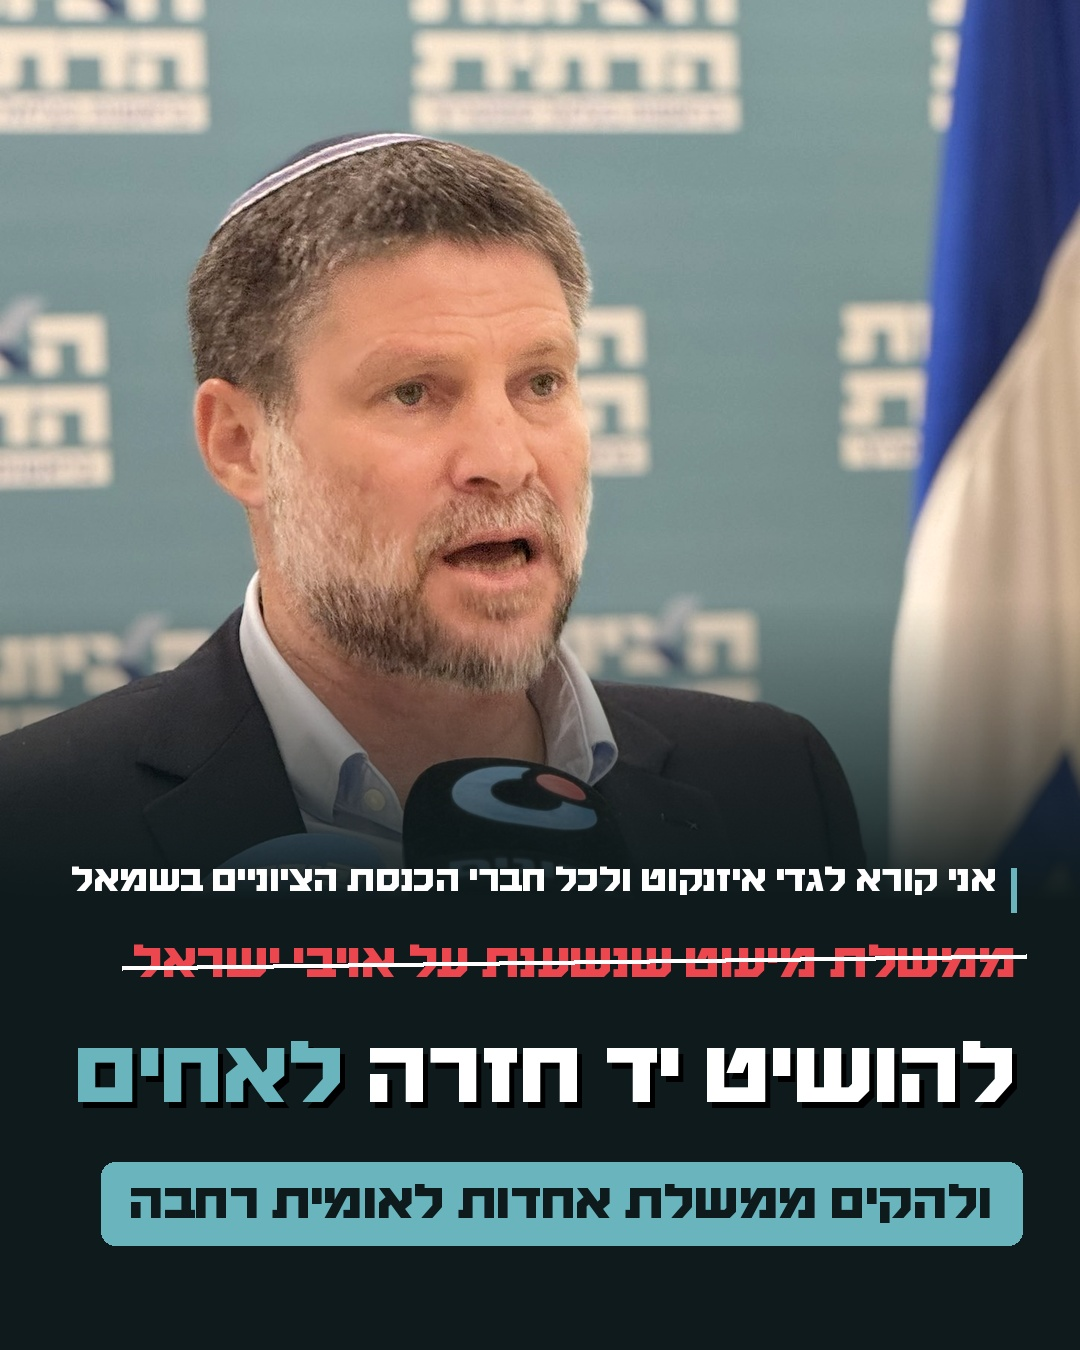
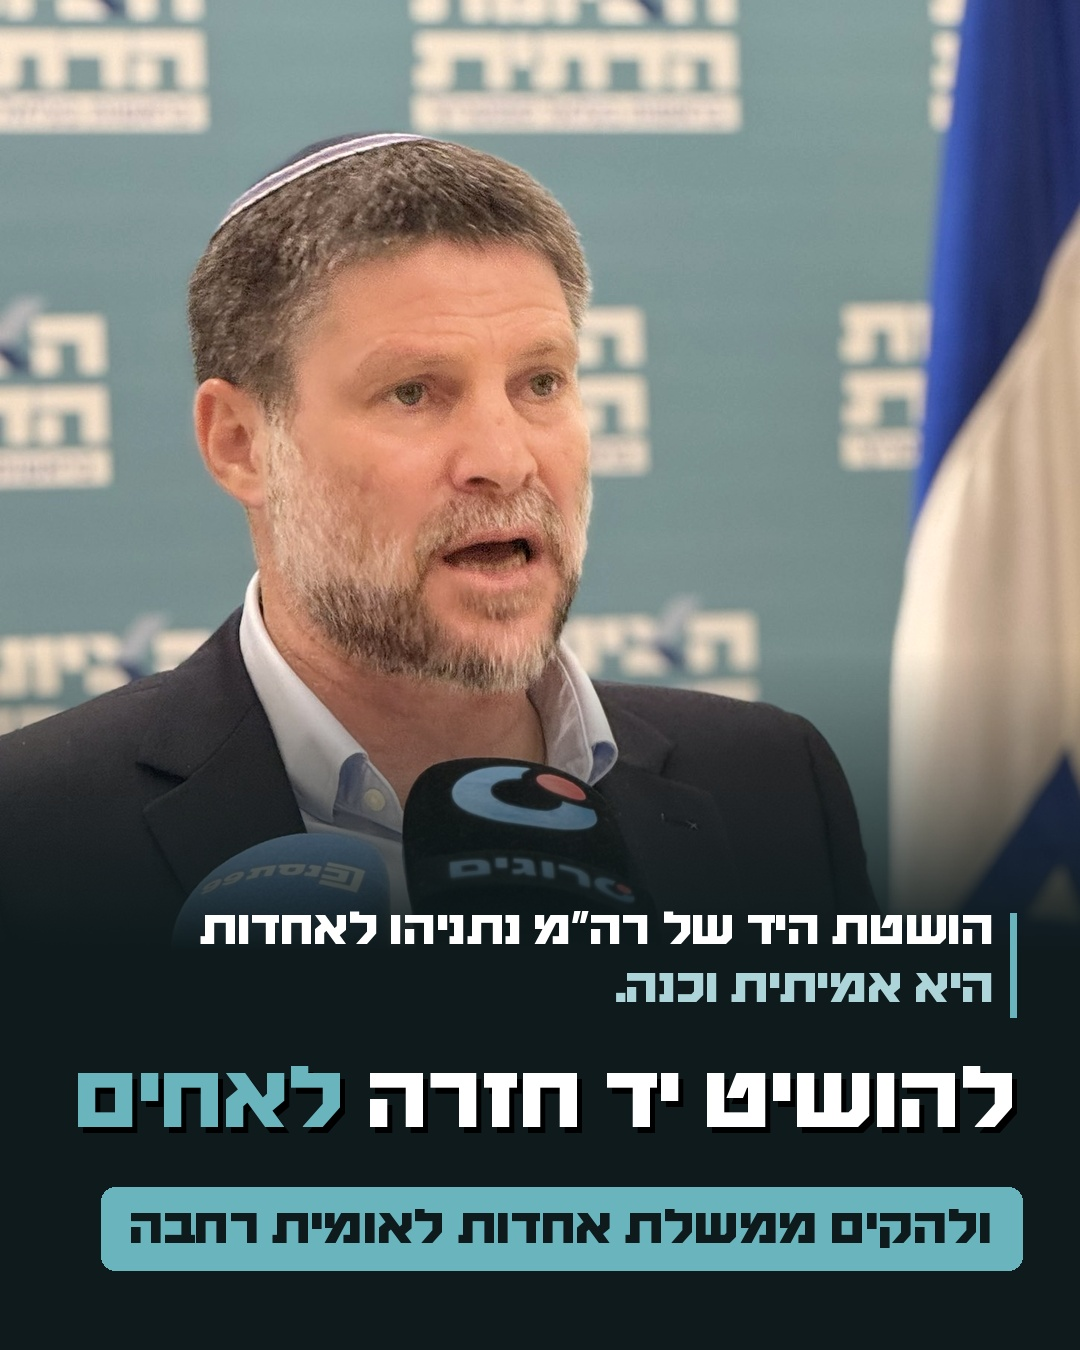
Unity post: message is unity, minority-gov line removed
Claude-Session: https://claude.ai/code/session_01RS3QK6pAd3YhyAuXZSJjH1

Changed region(s): [[0.0611, 0.4667, 1.0, 0.9644], [0.0, 0.4667, 0.1833, 0.56]]

diff --git a/content-kit/hatzionut-hadatit/2026-11-post-unity-hand/make.py b/content-kit/hatzionut-hadatit/2026-11-post-unity-hand/make.py
@@ -1,5 +1,4 @@
-"""Smotrich IG post (4:5): unity call. Podium photo, then 'not this -> this': the minority government (red, struck through)
-vs. 'להושיט יד חזרה לאחים / ולהקים ממשלת אחדות לאומית רחבה'. Exact phrases from his text only."""
+"""Smotrich IG post (4:5): unity call (client: the message is unity — no minority-government line). Exact phrases only."""
 import os, numpy as np
 from PIL import Image, ImageDraw, ImageFont, ImageOps, ImageFilter, ImageEnhance
 HERE = os.path.dirname(os.path.abspath(__file__))
@@ -16,24 +15,17 @@ ph = Image.open(HERE + '/src/smotrich_podium.jpg').convert('RGB')
 ph = ImageOps.fit(ph, (W, 1040), Image.LANCZOS, centering=(.5, .12))
 ph = ImageEnhance.Contrast(ph).enhance(1.06)
 im = Image.new('RGB', (W, H), NIGHT); im.paste(ph, (0, 0))
-fade = np.clip((np.arange(H) - 600) / 300, 0, 1) ** 1.0
+fade = np.clip((np.arange(H) - 650) / 300, 0, 1) ** 1.0
 im = Image.composite(Image.new('RGB', (W, H), NIGHT), im, Image.fromarray((fade[:, None] * 255).repeat(W, 1).astype(np.uint8)))
 d = ImageDraw.Draw(im); R = W - 64
-y = 862
-# kicker
-k = 'אני קורא לגדי איזנקוט ולכל חברי הכנסת הציוניים בשמאל'
-fk = fit(d, k, 40, W - 150)
-d.rectangle((R - 5, y + 6, R, y + 50), fill=LT)
-d.text((R - 20, y), k, font=fk, fill='white', anchor='ra', direction='rtl')
-y += 76
-# NOT this: struck-through in red
-n = 'ממשלת מיעוט שנשענת על אויבי ישראל'
-fn = fit(d, n, 52, W - 160)
-bb = d.textbbox((R, y), n, font=fn, anchor='ra', direction='rtl')
-d.text((R, y), n, font=fn, fill=REDT, anchor='ra', direction='rtl')
-my = (bb[1] + bb[3]) // 2 + 2
-d.line((bb[0] - 10, my + 6, bb[2] + 10, my - 6), fill='white', width=5)
-y += 92
+y = 905
+# kicker: his opening sentence
+k1, k2 = 'הושטת היד של רה״מ נתניהו לאחדות', 'היא אמיתית וכנה.'
+fk = fit(d, k1, 48, W - 150)
+d.rectangle((R - 6, y + 8, R, y + 112), fill=LT)
+d.text((R - 22, y), k1, font=fk, fill='white', anchor='ra', direction='rtl')
+d.text((R - 22, y + 58), k2, font=fk, fill=PALE, anchor='ra', direction='rtl')
+y += 150
 # THIS
 a, b = 'להושיט יד חזרה', 'לאחים'
 fh = F(104)
